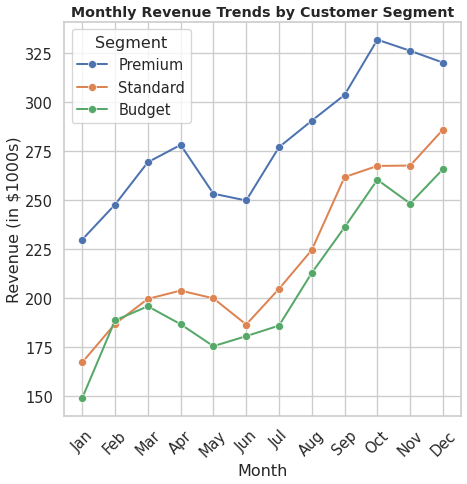
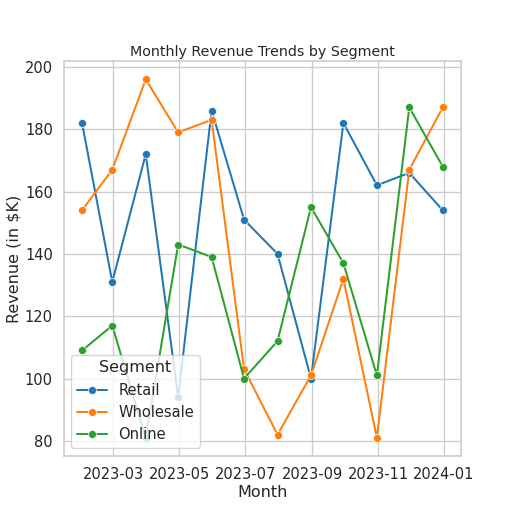
redimensioned png

Changed region(s): [[0.0, 0.0, 0.9893, 0.9917]]

diff --git a/chart.py b/chart.py
@@ -1,41 +1,31 @@
-# chart.py
-# Author: Smriti Rani
-# Email: 24f2007963@ds.study.iitm.ac.in
-
 import seaborn as sns
 import matplotlib.pyplot as plt
 import pandas as pd
 import numpy as np
 
-# 1. Generate synthetic seasonal revenue data
+# Generate synthetic data
 np.random.seed(42)
-months = pd.date_range("2024-01-01", "2024-12-31", freq="M").strftime("%b")
-segments = ["Premium", "Standard", "Budget"]
+months = pd.date_range(start="2023-01", periods=12, freq="M")
+segments = ["Retail", "Wholesale", "Online"]
+data = {
+    "Month": np.tile(months, len(segments)),
+    "Segment": np.repeat(segments, len(months)),
+    "Revenue": np.random.randint(80, 200, len(months) * len(segments))
+}
+df = pd.DataFrame(data)
 
-data = []
-for seg in segments:
-    base = np.linspace(100, 200, len(months))  # growth trend
-    seasonal = 20 * np.sin(np.linspace(0, 3 * np.pi, len(months)))  # seasonality
-    noise = np.random.normal(0, 10, len(months))  # random fluctuations
-    revenue = base + seasonal + noise + np.random.randint(50, 150)
-    data.extend(zip(months, [seg]*len(months), revenue))
-
-df = pd.DataFrame(data, columns=["Month", "Segment", "Revenue"])
-
-# 2. Set Seaborn style
+# Professional styling
 sns.set_style("whitegrid")
 sns.set_context("talk")
 
-# 3. Create lineplot
-plt.figure(figsize=(8, 8))  # ensures 512x512 pixels with dpi=64
-sns.lineplot(data=df, x="Month", y="Revenue", hue="Segment", marker="o", palette="deep")
+# Create fixed 512x512 output
+fig, ax = plt.subplots(figsize=(8, 8), dpi=64)  # 8*64 = 512 pixels
 
-# 4. Customize chart
-plt.title("Monthly Revenue Trends by Customer Segment", fontsize=16, weight="bold")
-plt.xlabel("Month")
-plt.ylabel("Revenue (in $1000s)")
-plt.xticks(rotation=45)
+sns.lineplot(data=df, x="Month", y="Revenue", hue="Segment", marker="o", ax=ax)
+ax.set_title("Monthly Revenue Trends by Segment", fontsize=16)
+ax.set_xlabel("Month")
+ax.set_ylabel("Revenue (in $K)")
 
-# 5. Save chart
-plt.savefig("chart.png", dpi=64, bbox_inches="tight")
+# Save WITHOUT bbox_inches to keep 512x512
+plt.savefig("chart.png", dpi=64)
 plt.close()
